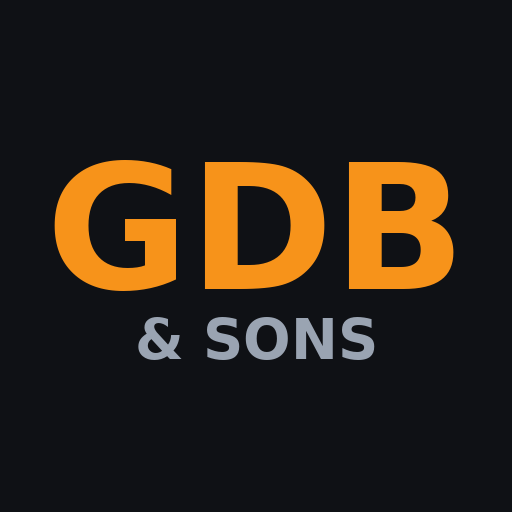
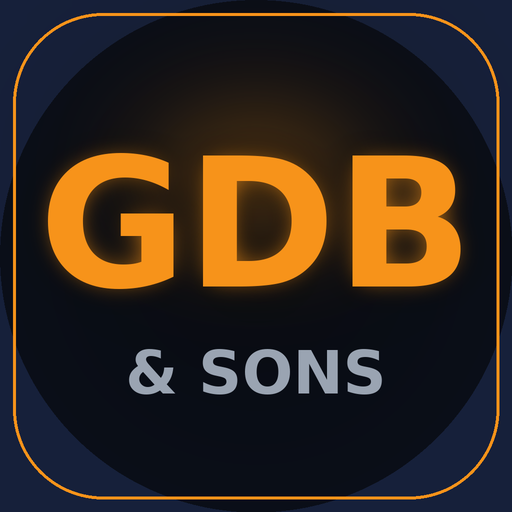
Add files via upload

diff --git a/index.html b/index.html
@@ -8,7 +8,7 @@
   <meta name="apple-mobile-web-app-status-bar-style" content="black-translucent"/>
   <meta name="apple-mobile-web-app-title" content="GDB &amp; Sons"/>
   <link rel="manifest" href="manifest.json"/>
-  <link rel="apple-touch-icon" href="icon-192.png"/>
+  <link rel="apple-touch-icon" sizes="180x180" href="apple-touch-icon.png"/>
   <title>GDB &amp; Sons</title>
   <style>
     *{box-sizing:border-box;margin:0;padding:0}
@@ -24,8 +24,8 @@
     .btc-glow{position:absolute;inset:0;border-radius:50%;background:radial-gradient(circle,#F7931A 0%,transparent 70%);opacity:0;animation:glowPulse 2.4s ease-in-out forwards;}
     .btc-glow2{position:absolute;width:160%;height:160%;top:-30%;left:-30%;border-radius:50%;background:radial-gradient(circle,#F7931A44 0%,transparent 65%);opacity:0;animation:glowPulse2 2.4s ease-in-out forwards;}
     .btc-glow3{position:absolute;width:240%;height:240%;top:-70%;left:-70%;border-radius:50%;background:radial-gradient(circle,#F7931A22 0%,transparent 60%);opacity:0;animation:glowPulse3 2.4s ease-in-out forwards;}
-    .btc-symbol{position:relative;z-index:2;font-size:58px;color:#1a0e00;animation:btcLight 2.4s ease-in-out forwards;filter:drop-shadow(0 0 0px #F7931A);user-select:none;}
-    .progress-bar{width:160px;height:3px;background:#1C2130;border-radius:2px;overflow:hidden;}
+    .btc-symbol{position:relative;z-index:2;font-size:58px;color:#1a0e00;animation:btcLight 2.4s ease-in-out forwards, btcBreath 2.6s 2.4s ease-in-out infinite;filter:drop-shadow(0 0 0px #F7931A);user-select:none;}
+    .progress-bar{width:160px;height:3px;background:#1C2130;border-radius:2px;overflow:hidden;animation:barPulse 1.8s 2.2s ease-in-out infinite;}
     .progress-fill{height:100%;background:linear-gradient(90deg,#F7931A88,#F7931A);border-radius:2px;animation:progressFill 2.2s ease-in-out forwards;}
     .loader-label{font-family:system-ui,sans-serif;font-size:18px;font-weight:800;color:#F7931A;opacity:0;animation:fadeLabel 2.4s ease-in-out forwards;letter-spacing:.5px;}
     .loader-sub{font-family:system-ui,sans-serif;font-size:11px;color:#4B5563;opacity:0;animation:fadeLabel 2.4s .3s ease-in-out forwards;letter-spacing:1px;}
@@ -35,6 +35,8 @@
     @keyframes btcLight{0%{color:#1a0e00;filter:drop-shadow(0 0 0px #F7931A)}20%{color:#3d1e00;filter:drop-shadow(0 0 4px #F7931A)}50%{color:#8B4500;filter:drop-shadow(0 0 12px #F7931A)}80%{color:#D4700A;filter:drop-shadow(0 0 24px #F7931A)}100%{color:#F7931A;filter:drop-shadow(0 0 36px #F7931A) drop-shadow(0 0 8px #FFB347)}}
     @keyframes progressFill{0%{width:0%}20%{width:15%}50%{width:45%}75%{width:70%}90%{width:88%}100%{width:100%}}
     @keyframes fadeLabel{0%{opacity:0;transform:translateY(6px)}40%{opacity:0;transform:translateY(6px)}70%{opacity:.7;transform:translateY(0)}100%{opacity:1;transform:translateY(0)}}
+    @keyframes btcBreath{0%,100%{filter:drop-shadow(0 0 36px #F7931A) drop-shadow(0 0 8px #FFB347);transform:scale(1)}50%{filter:drop-shadow(0 0 20px #F7931A) drop-shadow(0 0 4px #FFB347);transform:scale(.97)}}
+    @keyframes barPulse{0%,100%{opacity:1}50%{opacity:.4}}
   </style>
 </head>
 <body>
@@ -55,17 +57,16 @@
   <script src="https://unpkg.com/@babel/standalone/babel.min.js"></script>
   <!-- Donnees en dur chargees en script simple (non-Babel) : parse natif rapide -->
   <script src="seeds.js?v=26.05"></script>
-  <script type="text/babel" data-presets="react" src="app.jsx?v=26.10"></script>
+  <script type="text/babel" data-presets="react" src="app.jsx?v=27.00"></script>
   <script>
-    const obs=new MutationObserver(()=>{
-      if(document.querySelector('#root > div')){
-        const l=document.getElementById('loader');
-        l.style.opacity='0';
-        setTimeout(()=>l.style.display='none',500);
-        obs.disconnect();
-      }
-    });
-    obs.observe(document.getElementById('root'),{childList:true});
+    // Le splash reste affiche (logo + barre animes) jusqu'a ce que l'app React soit prete :
+    // c'est l'app qui retire #loader quand le chargement des donnees est termine.
+    // Filet de securite : retrait force apres 30s si l'app n'a jamais signale.
+    window.__hideLoader=function(){
+      var l=document.getElementById('loader');
+      if(l && l.style.display!=='none'){ l.style.opacity='0'; setTimeout(function(){ l.style.display='none'; },500); }
+    };
+    setTimeout(window.__hideLoader, 30000);
   </script>
 </body>
 </html>

diff --git a/app.jsx b/app.jsx
@@ -723,7 +723,7 @@ function applyPrices(prices, usdEur, effSrc){
 }
 
 // Date locale UTC+11 (Nouvelle-Calédonie)
-const APP_VERSION = "v26.10";
+const APP_VERSION = "v27.00";
 const NC_OFFSET_MS = 11 * 60 * 60 * 1000;
 const todayNC = () => {
   const nc = new Date(Date.now() + NC_OFFSET_MS);
@@ -6565,6 +6565,7 @@ function PageLegend(
   const best = list.length?Math.max.apply(null,list.map(function(t){return t.pnlUSD;})):0;
   const worst = list.length?Math.min.apply(null,list.map(function(t){return t.pnlUSD;})):0;
   const winRate = list.length?Math.round(wins/list.length*100):0;
+  const avgDur = list.length?Math.round(list.reduce(function(a,t){return a+(t.durationDays||0);},0)/list.length):0;
   const fU = function(v){ return (v<0?"-$":"$")+Math.abs(Math.round(v)).toLocaleString("fr-FR"); };
   const Tab=function(props){ return (
     <button onClick={props.onClick} style={{flex:1,padding:"8px 0",borderRadius:9,border:"none",cursor:"pointer",fontSize:13,fontWeight:800,
@@ -6599,6 +6600,10 @@ function PageLegend(
         <div style={{background:C.bg2,borderRadius:12,padding:"11px 13px"}}>
           <div style={{fontSize:9,color:C.text3,textTransform:"uppercase",letterSpacing:1}}>Pire</div>
           <div style={{fontSize:15,fontWeight:800,color:C.red}}>{msk(fU(worst),hidden)}</div>
+        </div>
+        <div style={{gridColumn:"1 / -1",background:C.bg2,borderRadius:12,padding:"11px 13px",display:"flex",justifyContent:"space-between",alignItems:"center"}}>
+          <div style={{fontSize:9,color:C.text3,textTransform:"uppercase",letterSpacing:1}}>Durée moyenne de trade</div>
+          <div style={{fontSize:16,fontWeight:800,color:C.text}}>{avgDur} jour{avgDur>1?"s":""}</div>
         </div>
       </div>
       {/* Tri */}
@@ -8180,6 +8185,14 @@ function App(){
       console.info("[positions] état persisté après trade (savedAt="+stamp+")");
     } catch(e){ console.warn("[positions] persistance échouée:", e && e.message); }
   }, [live]);
+
+  // Splash : on le retire seulement quand l'app est prete (anime jusqu'au bout du chargement).
+  useEffect(()=>{
+    if(!ready) return;
+    if(typeof window!=="undefined" && window.__hideLoader){ window.__hideLoader(); return; }
+    const l=(typeof document!=="undefined")&&document.getElementById("loader");
+    if(l){ l.style.opacity="0"; setTimeout(function(){ l.style.display="none"; }, 500); }
+  }, [ready]);
 
   const delTxn=useCallback(async id=>{
     const next=txns.filter(t=>t.id!==id);setTxns(next);await save(SK.txns,next);